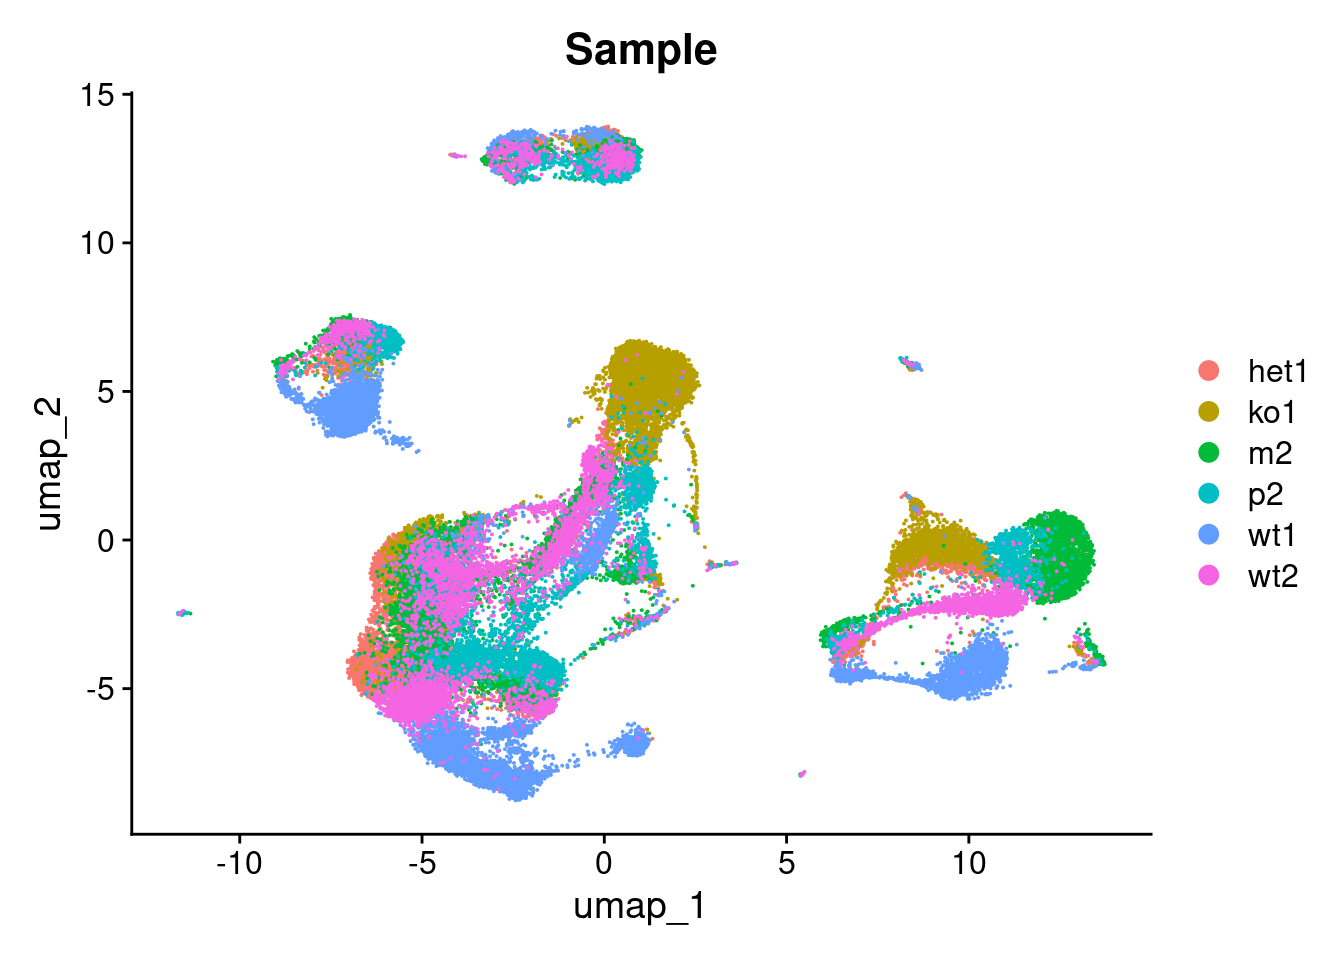
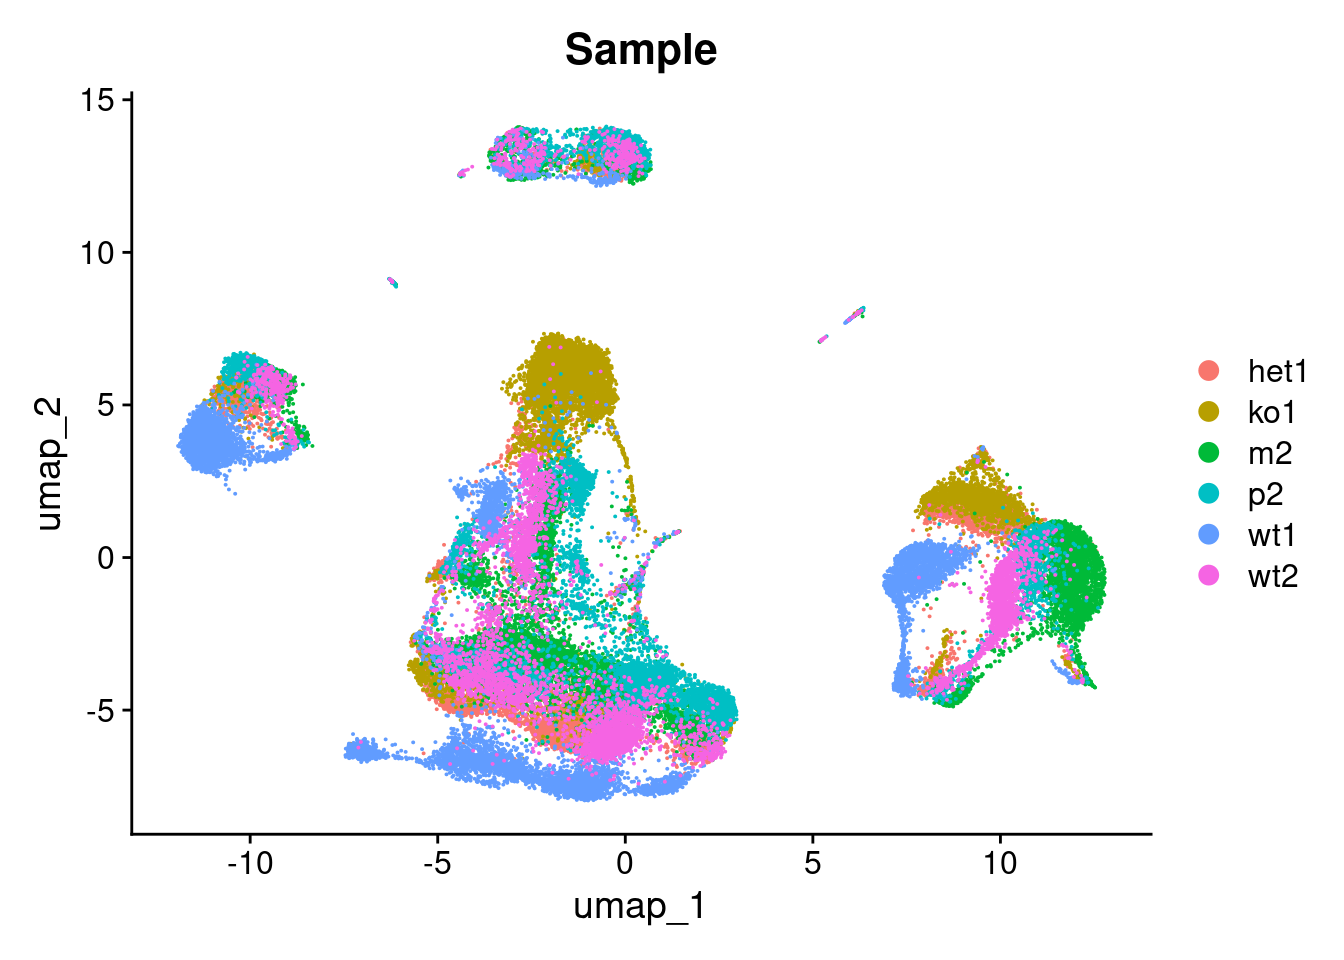
Build site.

diff --git a/docs/analysiswithseurat.html b/docs/analysiswithseurat.html
@@ -432,7 +432,7 @@ div.tocify {
 <div class="tab-content">
 <div id="summary" class="tab-pane fade in active">
 <p>
-<strong>Last updated:</strong> 2021-01-07
+<strong>Last updated:</strong> 2021-01-10
 </p>
 <p>
 <strong>Checks:</strong> <span class="glyphicon glyphicon-ok text-success" aria-hidden="true"></span> 7 <span class="glyphicon glyphicon-exclamation-sign text-danger" aria-hidden="true"></span> 0
@@ -523,22 +523,25 @@ This reproducible <a href="http://rmarkdown.rstudio.com">R Markdown</a> analysis
 <div class="panel panel-default">
 <div class="panel-heading">
 <p class="panel-title">
-<a data-toggle="collapse" data-parent="#workflowr-checks" href="#strongRepositoryversionstrongahrefhttpsgithubcomjeprobprojectscrnaseqintegrationcomparisontreeb05f3d0668901ab3c25655660842b1e27f8f6686targetblankb05f3d0a"> <span class="glyphicon glyphicon-ok text-success" aria-hidden="true"></span> <strong>Repository version:</strong> <a href="https://github.com/jeprob/project-scrnaseq-integration-comparison/tree/b05f3d0668901ab3c25655660842b1e27f8f6686" target="_blank">b05f3d0</a> </a>
+<a data-toggle="collapse" data-parent="#workflowr-checks" href="#strongRepositoryversionstrongahrefhttpsgithubcomjeprobprojectscrnaseqintegrationcomparisontree6e4f97d062bcd55033d1193568ddcc997a36f398targetblank6e4f97da"> <span class="glyphicon glyphicon-ok text-success" aria-hidden="true"></span> <strong>Repository version:</strong> <a href="https://github.com/jeprob/project-scrnaseq-integration-comparison/tree/6e4f97d062bcd55033d1193568ddcc997a36f398" target="_blank">6e4f97d</a> </a>
 </p>
 </div>
[2 lines of base64/hex data omitted]
 <div class="panel-body">
 <p>
 Great! You are using Git for version control. Tracking code development and connecting the code version to the results is critical for reproducibility.
 </p>
 <p>
-The results in this page were generated with repository version <a href="https://github.com/jeprob/project-scrnaseq-integration-comparison/tree/b05f3d0668901ab3c25655660842b1e27f8f6686" target="_blank">b05f3d0</a>. See the <em>Past versions</em> tab to see a history of the changes made to the R Markdown and HTML files.
+The results in this page were generated with repository version <a href="https://github.com/jeprob/project-scrnaseq-integration-comparison/tree/6e4f97d062bcd55033d1193568ddcc997a36f398" target="_blank">6e4f97d</a>. See the <em>Past versions</em> tab to see a history of the changes made to the R Markdown and HTML files.
 </p>
 <p>
 Note that you need to be careful to ensure that all relevant files for the analysis have been committed to Git prior to generating the results (you can use <code>wflow_publish</code> or <code>wflow_git_commit</code>). workflowr only checks the R Markdown file, but you know if there are other scripts or data files that it depends on. Below is the status of the Git repository when the results were generated:
 </p>
 <pre><code>
-working directory clean
+Ignored files:
+    Ignored:    .RData
+    Ignored:    .Rhistory
+
 </code></pre>
 <p>
 Note that any generated files, e.g. HTML, png, CSS, etc., are not included in this status report because it is ok for generated content to have uncommitted changes.
@@ -576,6 +579,40 @@ Message
 </tr>
 </thead>
 <tbody>
+<tr>
+<td>
+Rmd
+</td>
+<td>
+<a href="https://github.com/jeprob/project-scrnaseq-integration-comparison/blob/6e4f97d062bcd55033d1193568ddcc997a36f398/analysis/analysiswithseurat.Rmd" target="_blank">6e4f97d</a>
+</td>
+<td>
+jeprob
+</td>
+<td>
+2021-01-10
+</td>
+<td>
+wflow_publish(“analysis/analysiswithseurat.Rmd”)
+</td>
+</tr>
+<tr>
+<td>
+html
+</td>
+<td>
+<a href="https://rawcdn.githack.com/jeprob/project-scrnaseq-integration-comparison/7f8786e9bd21fd77239acccee55fa3c5ac8be213/docs/analysiswithseurat.html" target="_blank">7f8786e</a>
+</td>
+<td>
+jeprob
+</td>
+<td>
+2021-01-07
+</td>
+<td>
+index.html error
+</td>
+</tr>
 <tr>
 <td>
 html
@@ -627,7 +664,8 @@ library(ggplot2)
 library(Seurat)
 library(cowplot)
 library(SeuratDisk)
-library(SeuratData)</code></pre>
+library(SeuratData)
+set.seed(333)</code></pre>
 </div>
 <div id="read-in-the-data" class="section level2">
 <h2>Read in the data</h2>
@@ -845,6 +883,7 @@ jeprob
 <p>We find 20 clusters identified from the Seurat integrated embeddings.</p>
 <p>Now we run the same analysis for the original dataset without integration. The only thing that changes is that one first has to find variable features on the whole unprocessed dataset, which had already been done for the integrated dataset.</p>
 <pre class="r"><code>#standard workflow for visualization
+pbmc &lt;- NormalizeData(pbmc)
 pbmc &lt;- FindVariableFeatures(pbmc, nfeatues=2000)
 pbmc &lt;- ScaleData(pbmc, verbose = FALSE)
 pbmc &lt;- RunPCA(pbmc, npcs = 30, verbose = FALSE)
@@ -897,18 +936,18 @@ pbmc &lt;- FindClusters(pbmc, resolution = 0.8)</code></pre>
 <pre><code>Modularity Optimizer version 1.3.0 by Ludo Waltman and Nees Jan van Eck
 
 Number of nodes: 46299
-Number of edges: 1407226
+Number of edges: 1412412
 
 Running Louvain algorithm...
-Maximum modularity in 10 random starts: 0.8901
-Number of communities: 19
-Elapsed time: 22 seconds</code></pre>
+Maximum modularity in 10 random starts: 0.8894
+Number of communities: 20
+Elapsed time: 19 seconds</code></pre>
 <pre class="r"><code>head(Idents(pbmc), 5)</code></pre>
 <pre><code>het1.AAACCTGAGATGTTAG-1 het1.AAACCTGAGGTGGGTT-1 het1.AAACCTGAGTGGGTTG-1 
-                      2                       7                       3 
+                      2                       4                       9 
 het1.AAACCTGAGTGTCTCA-1 het1.AAACCTGCAAGTTGTC-1 
                       0                       0 
-Levels: 0 1 2 3 4 5 6 7 8 9 10 11 12 13 14 15 16 17 18</code></pre>
+Levels: 0 1 2 3 4 5 6 7 8 9 10 11 12 13 14 15 16 17 18 19</code></pre>
 <pre class="r"><code>pbmc$newcluster &lt;- as.factor(Idents(pbmc))
 
 #plot by cluster
@@ -1022,7 +1061,7 @@ loaded via a namespace (and not attached):
  [79] compiler_4.0.3         rstudioapi_0.13        plotly_4.9.2.2        
  [82] png_0.1-7              spatstat.utils_1.17-0  tibble_3.0.4          
  [85] stringi_1.5.3          RSpectra_0.16-0        lattice_0.20-41       
- [88] Matrix_1.3-0           vctrs_0.3.6            pillar_1.4.7          
+ [88] Matrix_1.3-2           vctrs_0.3.6            pillar_1.4.7          
  [91] lifecycle_0.2.0        lmtest_0.9-38          RcppAnnoy_0.0.18      
  [94] data.table_1.13.6      bitops_1.0-6           irlba_2.3.3           
  [97] httpuv_1.5.4           patchwork_1.1.1        R6_2.5.0              
